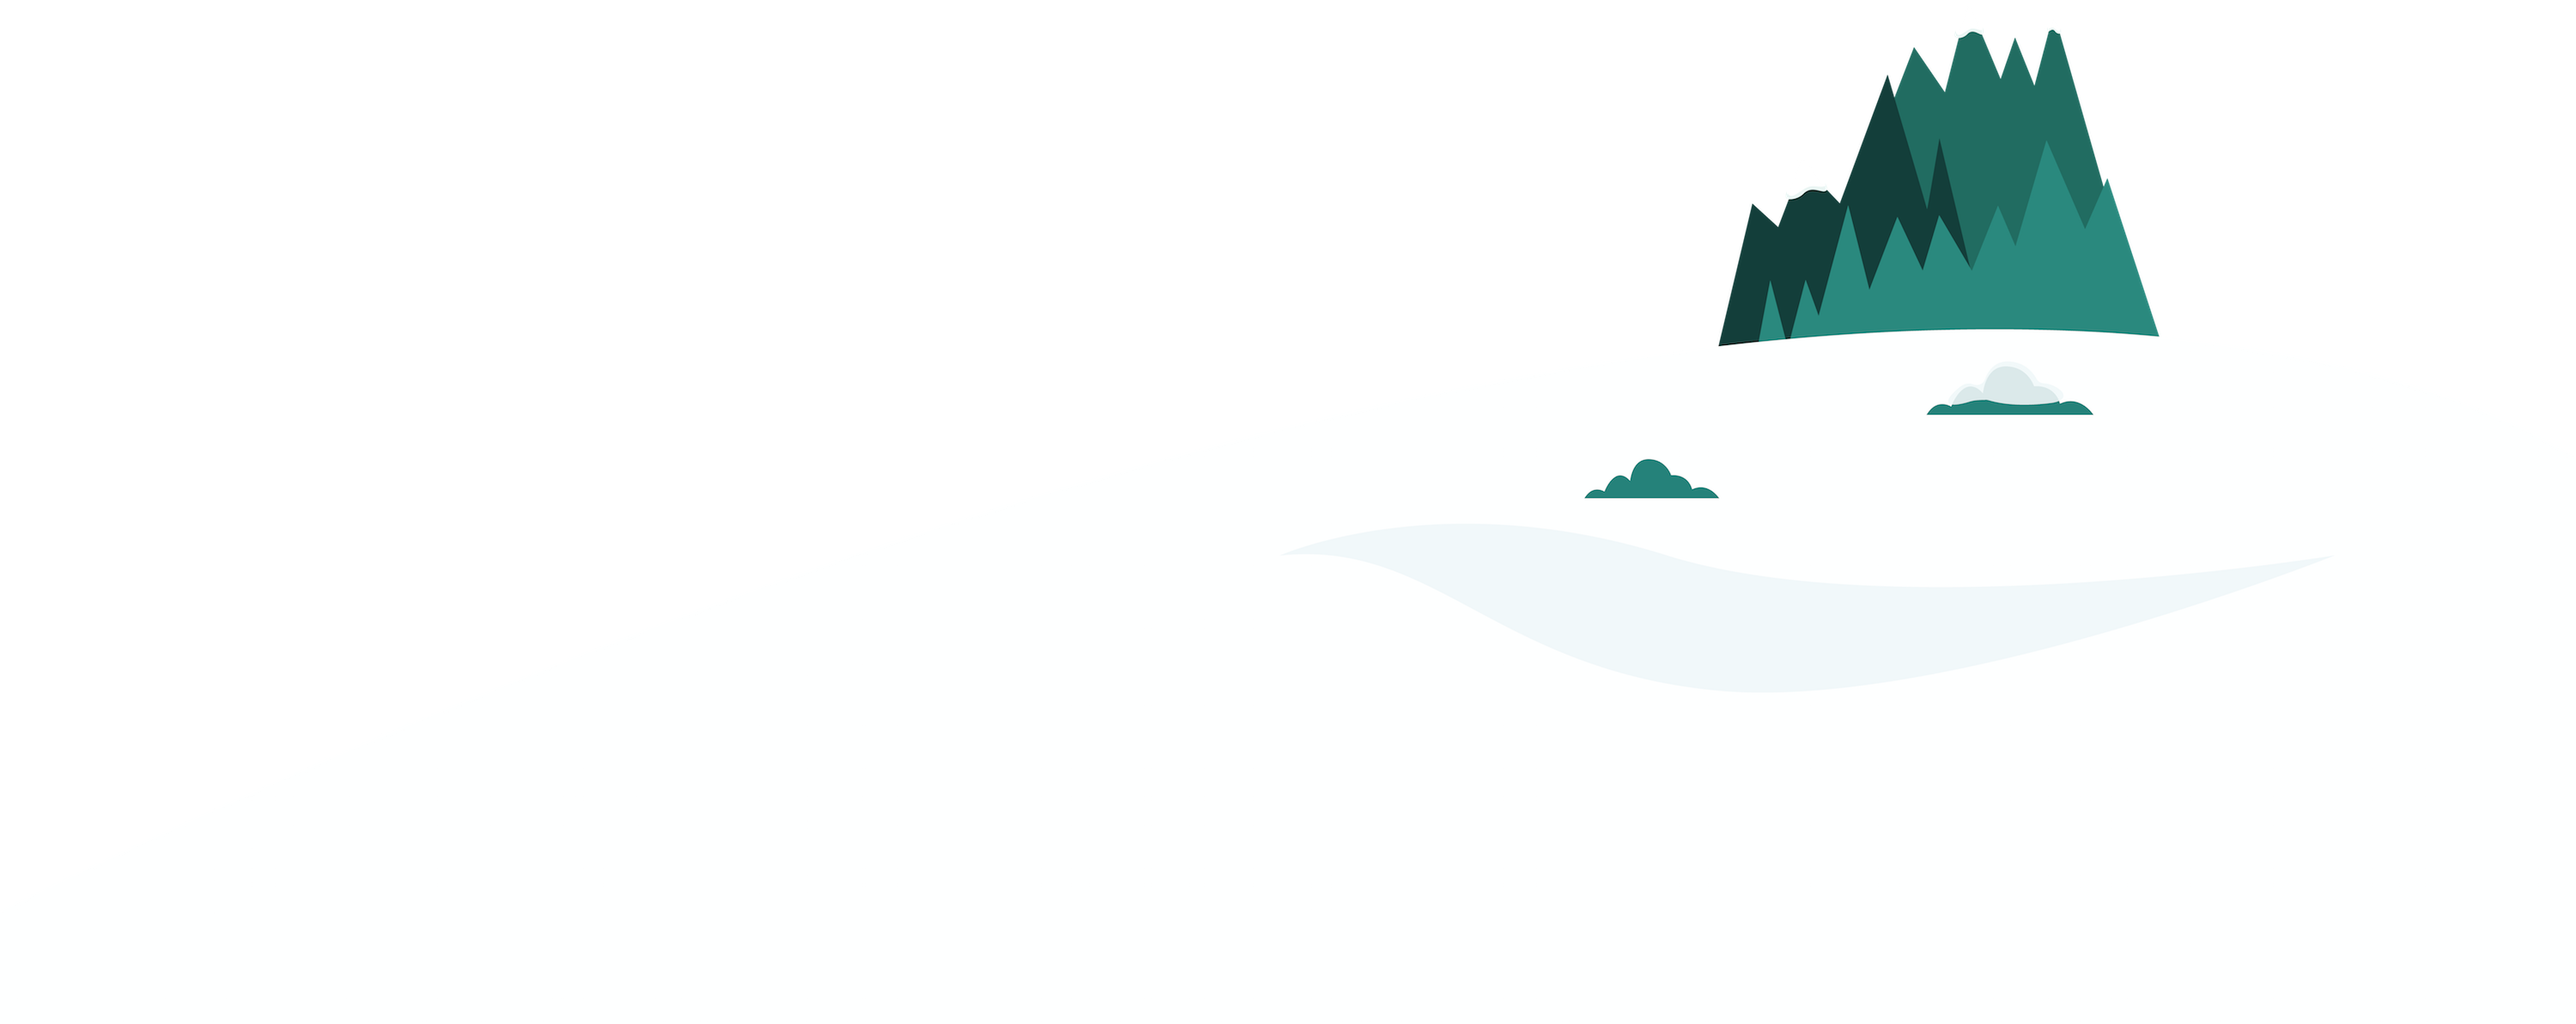
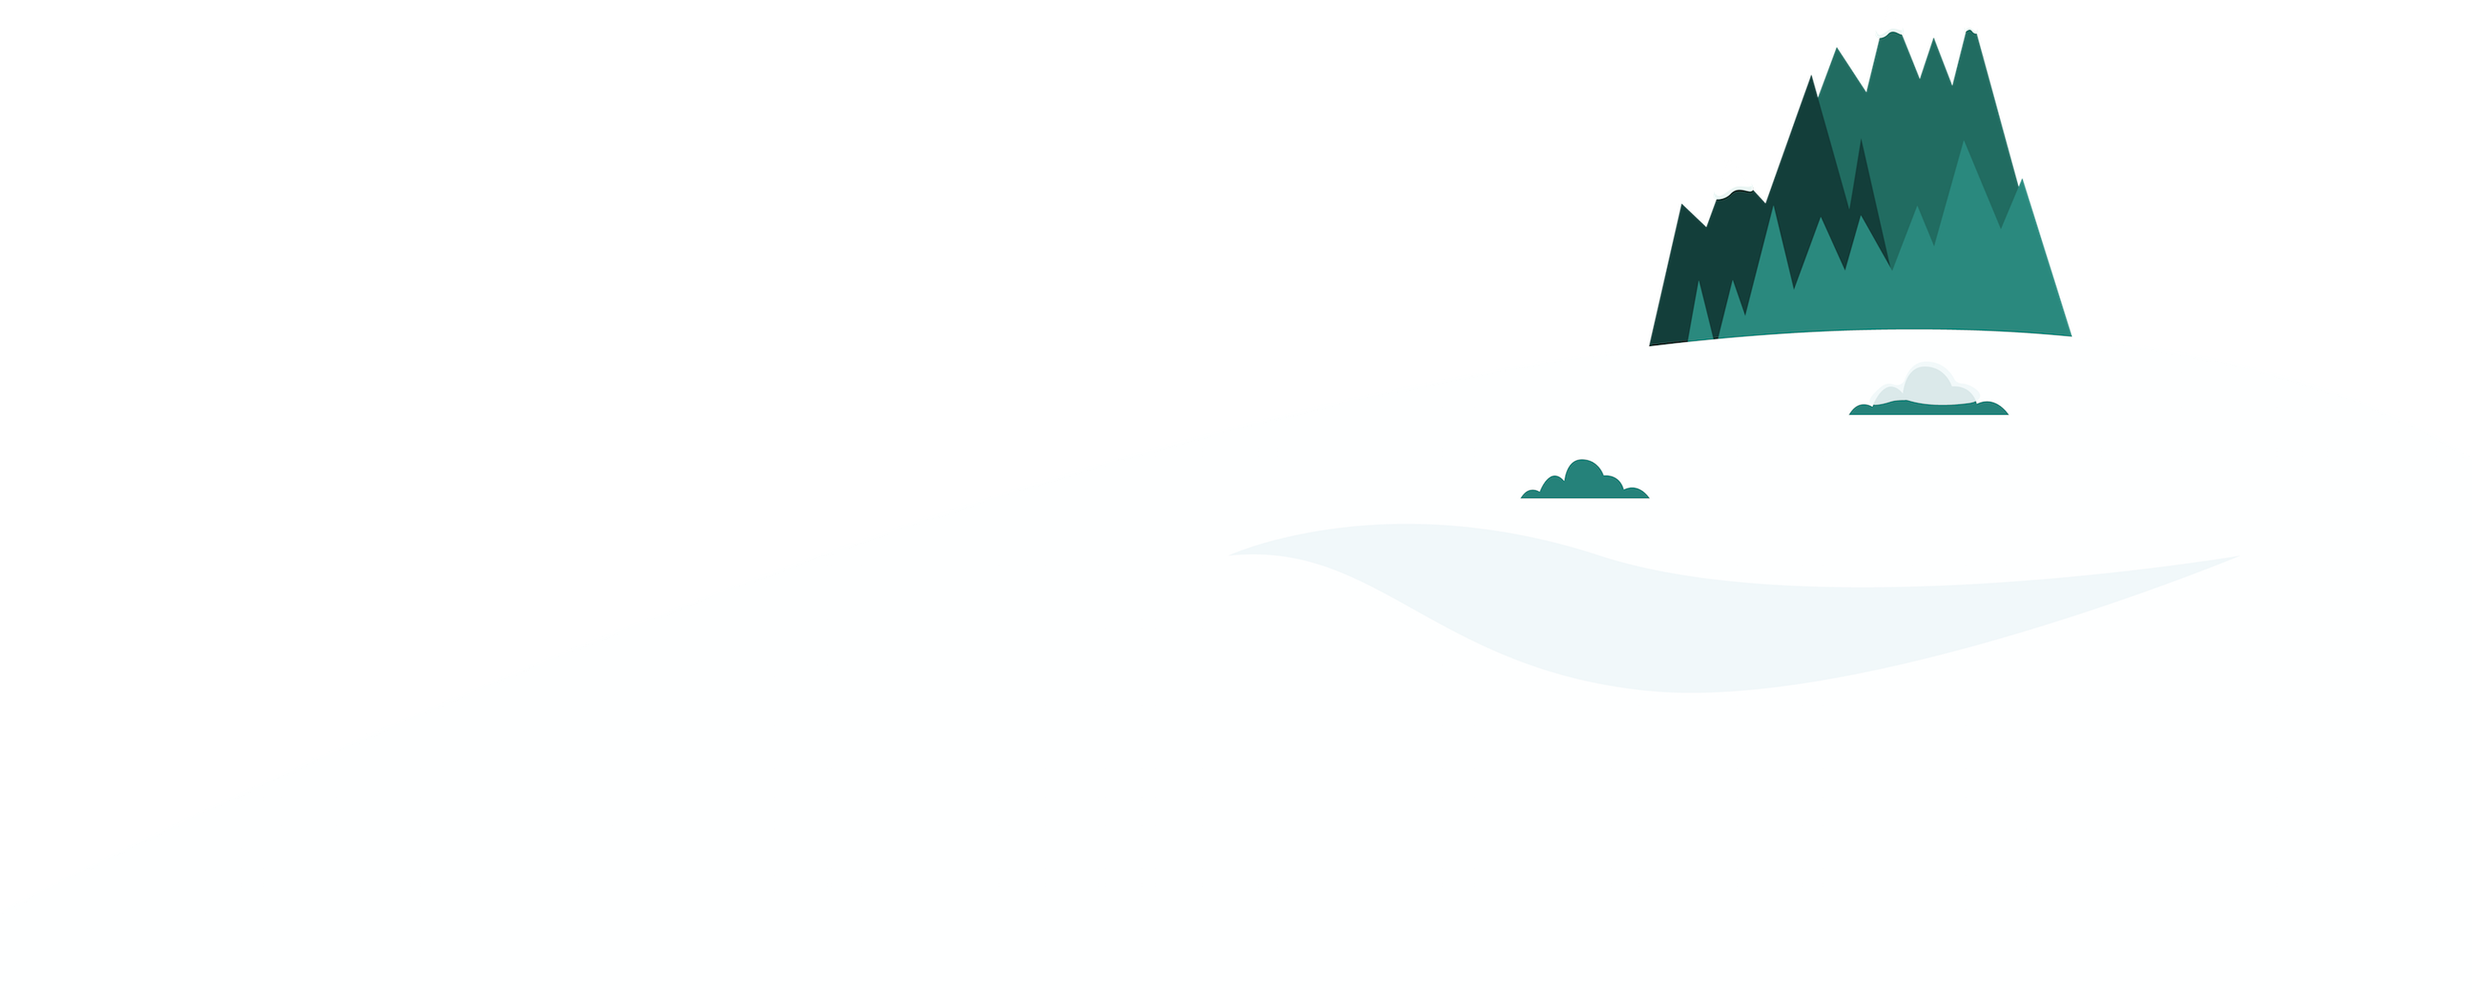
Screen size fixes

diff --git a/css/main.css b/css/main.css
@@ -30,7 +30,12 @@ html, body {
 /* Scenery  */
 
 #scenery_intro {
-	background: #1A4875;
+	/* Permalink - use to edit and share this gradient: http://colorzilla.com/gradient-editor/#001b56+0,476d99+100 */
+	background: #001b56; /* Old browsers */
+	background: -moz-linear-gradient(top,  #001b56 0%, #476d99 100%); /* FF3.6-15 */
+	background: -webkit-linear-gradient(top,  #001b56 0%,#476d99 100%); /* Chrome10-25,Safari5.1-6 */
+	background: linear-gradient(to bottom,  #001b56 0%,#476d99 100%); /* W3C, IE10+, FF16+, Chrome26+, Opera12+, Safari7+ */
+	filter: progid:DXImageTransform.Microsoft.gradient( startColorstr='#001b56', endColorstr='#476d99',GradientType=0 ); /* IE6-9 */
 	height: 100%;
 	min-height: 600px;
 	position: relative;
@@ -62,6 +67,16 @@ html, body {
 	width: 70px;
 	top: 10%;
 	right: 15%;
+	z-index: 2;
+}
+
+#scenery_intro .buildings {
+	position: absolute;
+	width: 40%;
+	bottom: -6%;
+	left: 48%;
+	transform: translate(-50%, 0%);
+	-webkit-transform:  translate(-50%, 0%);
 	z-index: 2;
 }
 
@@ -788,10 +803,13 @@ a.panel-heading:hover {
 
 @media (max-height: 700px) { 
 	#header-title{
-		top: 50%;
+		top: 44%;
 	}
 	#header-title .btn_row{
 		margin-top: 25px;
+	}
+	.talk_to_us{
+		text-shadow: 0px 1px 5px rgba(20, 20, 20, 0.90);
 	}
 }
 

diff --git a/index.html b/index.html
@@ -36,6 +36,7 @@
         <img src="img/tower.png" class="clock_tower">
 
         <img src="img/moon.png" class="moon">
+        <img src="img/buildings.png" class="buildings">
         <img src="img/hill_left.png"  class="hill_left">
         <img src="img/hill_right.png"  class="hill_right">
 
